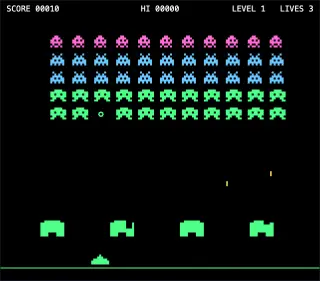
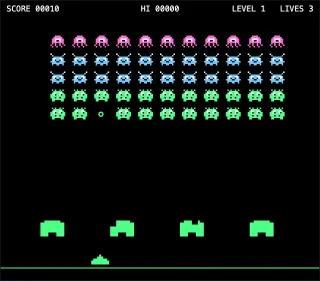
Alien Attack: original, more whimsical alien sprites
One-eyed jelly, boing-antenna blusher and googly fuzzball (10x8, eyes,
cheeks, two-frame wiggle), plus a saucer with a peeking pilot and blinking
lights. Same 30x24 hit boxes. Menu thumbnail refreshed.

Claude-Session: https://claude.ai/code/session_01SWGsUFD84Fzk7L6kkQCVcx

diff --git a/invaders/index.html b/invaders/index.html
@@ -48,29 +48,35 @@ addEventListener('keyup', e => { keys[e.code] = false; });
 // ---------- Game ----------
 const cv = $('game'), ctx = cv.getContext('2d');
 const W = cv.width, H = cv.height, GROUND = H - 30;
+// Each sprite: one or two animation frames of rows. '#' body, 'o' eye white, '*' pupil/mouth, 'c' rosy cheek, 'y' light.
 const SPRITES = {
-  squid: ['..##..', '.####.', '##.#.#', '######', '.#..#.', '#.##.#'],
-  crab:  ['.#...#.', '..#.#..', '.#####.', '##.#.##', '#######', '#.#.#.#'],
-  octo:  ['..####..', '########', '##.##.##', '########', '.##..##.', '##....##'],
-  ship:  ['....#....', '...###...', '.#######.', '#########', '#########'],
-  ufo:   ['...####...', '.########.', '##.##.##.#', '##########', '..#....#..'],
+  squid: [['...####...', '..######..', '.##oooo##.', '.##o**o##.', '.########.', '.#.#..#.#.', '#..#..#..#', '.#..#..#..'],   // one-eyed jelly
+          ['...####...', '..######..', '.##oooo##.', '.##**oo##.', '.########.', '.#.#..#.#.', '.#..#..#..', '#..#..#..#']],
+  crab:  [['o........o', '.#......#.', '..######..', '.#oo##oo#.', '.#o*##*o#.', '#c##**##c#', '.########.', '.#..##..#.'],  // boing-antenna blusher
+          ['.o......o.', '.#......#.', '..######..', '.#oo##oo#.', '.#*o##*o#.', '#c##**##c#', '.########.', '#..#..#..#']],
+  octo:  [['.#.#..#.#.', '..######..', '.#oo##oo#.', '##o*##o*##', '##########', '###*cc*###', '.########.', '.##....##.'],  // googly fuzzball
+          ['#.#..#.#..', '..######..', '.#oo##oo#.', '##*o##*o##', '##########', '###*cc*###', '.########.', '##......##']],
+  ship:  [['....#....', '...###...', '.#######.', '#########', '#########']],
+  ufo:   [['....oo....', '...o**o...', '.########.', '##y##y##y#', '..#....#..'],      // saucer with a peeking pilot
+          ['....oo....', '...o**o...', '.########.', '#y##y##y##', '..#....#..']],
 };
+const ALIEN_PX = 3;   // aliens are 10x8 pixels drawn 3 px each: 30x24
 const ROW_TYPES = ['squid', 'crab', 'crab', 'octo', 'octo'];
 const POINTS = { squid: 30, crab: 20, octo: 10 };
 const COLORS = { squid: '#ff6bd6', crab: '#6bc8ff', octo: '#4dff88', ship: '#4dff88', ufo: '#ff5a5a' };
+const INK = { o: '#ffffff', '*': '#14141c', c: '#ff9ec4', y: '#ffe14d' };
 
 function drawSprite(name, x, y, px, frame) {
-  ctx.fillStyle = COLORS[name];
-  const rows = SPRITES[name];
+  const frames = SPRITES[name], rows = frames[frame % frames.length];
   rows.forEach((row, j) => {
     for (let i = 0; i < row.length; ++i) {
-      // second animation frame: mirror the legs (last row)
-      const c = frame && j === rows.length - 1 ? row[row.length - 1 - i] : row[i];
-      if (c === '#') ctx.fillRect(x + i * px, y + j * px, px, px);
+      const c = row[i]; if (c === '.') continue;
+      ctx.fillStyle = INK[c] || COLORS[name];
+      ctx.fillRect(x + i * px, y + j * px, px, px);
     }
   });
 }
-const spriteW = (name, px) => SPRITES[name][0].length * px;
+const spriteW = (name, px) => SPRITES[name][0][0].length * px;
 
 const game = { state: 'title', score: 0, hi: 0, lives: 3, level: 1 };
 try { game.hi = +localStorage.getItem('mugicInvadersHi') || 0; } catch (e) {}
@@ -139,7 +145,7 @@ function update(dt) {
   if (game.stepTimer <= 0) {
     game.stepTimer = Math.max(0.03, 0.02 + alive.length / 55 * 0.6 / (1 + (game.level - 1) * 0.15));
     game.frame ^= 1;
-    const minX = Math.min(...alive.map(a => a.x)), maxX = Math.max(...alive.map(a => a.x + spriteW(a.type, 4)));
+    const minX = Math.min(...alive.map(a => a.x)), maxX = Math.max(...alive.map(a => a.x + spriteW(a.type, ALIEN_PX)));
     if ((game.dir > 0 && maxX + 10 > W - 10) || (game.dir < 0 && minX - 10 < 10)) {
       game.dir = -game.dir;
       alive.forEach(a => { a.y += 16; });
@@ -151,7 +157,7 @@ function update(dt) {
   // collisions: shot vs aliens / ufo
   if (game.shot) {
     for (const a of alive) {
-      if (overlap(game.shot.x, game.shot.y, 3, 12, a.x, a.y, spriteW(a.type, 4), 24)) {
+      if (overlap(game.shot.x, game.shot.y, 3, 12, a.x, a.y, spriteW(a.type, ALIEN_PX), 24)) {
         a.alive = false; game.shot = null; addScore(POINTS[a.type]);
         boom(a.x + 12, a.y + 12, COLORS[a.type]);
         break;
@@ -189,7 +195,7 @@ function update(dt) {
 
   // aliens erode bunkers, and landing ends the game
   alive.forEach(a => {
-    hitBunker(a.x, a.y, spriteW(a.type, 4), 24);
+    hitBunker(a.x, a.y, spriteW(a.type, ALIEN_PX), 24);
     if (a.y + 24 >= GROUND - 22) { game.lives = 0; killShip(); }
   });
 
@@ -216,10 +222,10 @@ function draw() {
   ctx.textAlign = 'right'; ctx.fillText('LEVEL ' + game.level + '   LIVES ' + Math.max(0, game.lives), W - 12, 22);
 
   if (game.state !== 'title') {
-    game.aliens.forEach(a => { if (a.alive) drawSprite(a.type, a.x, a.y, 4, game.frame); });
+    game.aliens.forEach(a => { if (a.alive) drawSprite(a.type, a.x, a.y, ALIEN_PX, game.frame); });
     ctx.fillStyle = '#4dff88';
     game.bunkers.forEach(p => ctx.fillRect(p.x, p.y, 4, 4));
-    if (game.ufo) drawSprite('ufo', game.ufo.x, 36, 3, 0);
+    if (game.ufo) drawSprite('ufo', game.ufo.x, 36, 3, Math.floor(performance.now() / 150));
     const s = game.ship;
     if (!(s.dead > 0) || Math.floor(s.dead * 10) % 2) drawSprite('ship', s.x - s.w / 2, GROUND - 22, 4, 0);
     ctx.fillStyle = '#fff';
@@ -239,7 +245,7 @@ function draw() {
     ctx.font = '36px ui-monospace, Menlo, monospace'; ctx.fillText('ALIEN ATTACK', W / 2, 180);
     ctx.font = '16px ui-monospace, Menlo, monospace';
     [['squid', 30], ['crab', 20], ['octo', 10]].forEach(([t, p], i) => {
-      drawSprite(t, W / 2 - 80, 240 + i * 40, 4, 0); ctx.fillStyle = '#fff'; ctx.fillText('= ' + p + ' PTS', W / 2 + 20, 258 + i * 40);
+      drawSprite(t, W / 2 - 80, 240 + i * 40, ALIEN_PX, 0); ctx.fillStyle = '#fff'; ctx.fillText('= ' + p + ' PTS', W / 2 + 20, 258 + i * 40);
     });
     drawSprite('ufo', W / 2 - 82, 362, 3, 0); ctx.fillStyle = '#fff'; ctx.fillText('= ? MYSTERY', W / 2 + 20, 378);
     ctx.fillText('PRESS ENTER (or flick the MUGIC) TO START', W / 2, 450);
